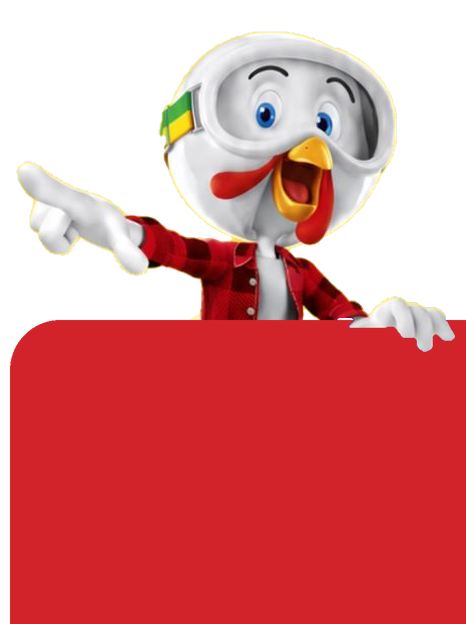
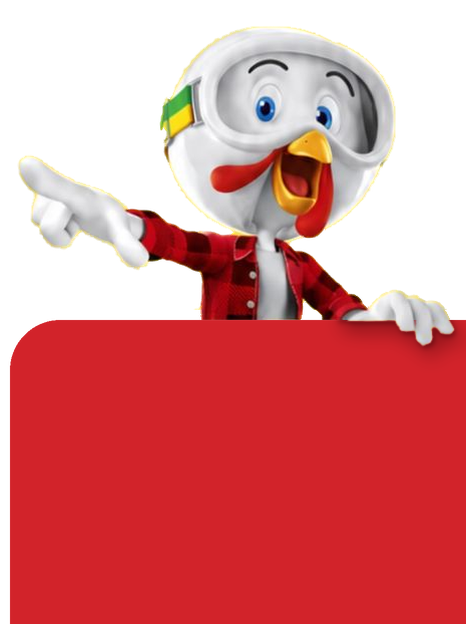
Sadia: recorte refinado do Lek Trek apontando, mão na borda da base e sombra de contato
Claude-Session: https://claude.ai/code/session_019BU3hUhN3BfwpUyH2ASXNC

Changed region(s): [[0.03, 0.0304, 0.9914, 0.5785], [0.3906, 0.3045, 0.4206, 0.3349]]

diff --git a/ferramentas/lektrek_aponta.py b/ferramentas/lektrek_aponta.py
@@ -1,28 +1,51 @@
 # Recorte do Lek Trek apontando (foto do pote de lasanha enviada pelo Vitor, 18/11/2026).
-# Fundo amarelo liso: fora = amarelo (B baixo, R e G altos); bico e faixa da mascara voltam pelo fill_holes.
+# 1) máscara dura: tudo que não é o amarelo do fundo; bico e faixa da máscara voltam pelo fill_holes.
+# 2) refino da borda (faixa de ~3 px): alfa por projeção entre a cor do fundo local (B) e a cor
+#    do mascote mais próxima (F); a cor da borda vira F, sem franja amarela.
 import sys
 import numpy as np
 from PIL import Image
 from scipy import ndimage as ndi
-def recorte(src, corte_y, mao_x=500, mao_y=368):
-    a=np.asarray(Image.open(src).convert('RGB')).astype(float)
-    r,g,b=a[...,0],a[...,1],a[...,2]
-    amarelo=(r>215)&(g>175)&(b<120)&(r-b>120)
-    fg=~amarelo
-    fg[corte_y:, :mao_x]=False; fg[mao_y:]=False; luva=(b>150)&(np.abs(r-b)<45); fg[corte_y-4:, mao_x:]&=luva[corte_y-4:, mao_x:];  # abaixo do pote só a luva branca
-    fg[:, :140]=False; fg[:, 650:]=False
-    fg=ndi.binary_opening(fg,iterations=1)
-    lab,n=ndi.label(fg); tam=ndi.sum(fg,lab,range(1,n+1))
-    fg=np.isin(lab, 1+np.where(tam>=max(400, tam.max()*0.01))[0])
-    fg=ndi.binary_closing(fg,iterations=2); fg=ndi.binary_fill_holes(fg)
-    # alfa suave e descontaminação do amarelo na borda
-    al=np.clip(ndi.gaussian_filter(fg.astype(float),0.8)*1.6-0.3,0,1)
-    borda=(al>0)&(al<1)
-    bg=np.array([252,218,45.])
-    rgb=a.copy()
-    m=borda[...,None]
-    rgb=np.where(m,np.clip((a-bg*(1-al[...,None]))/np.maximum(al[...,None],0.25),0,255),a)
-    out=Image.fromarray(np.dstack([rgb.astype(np.uint8),(al*255).astype(np.uint8)]),'RGBA')
-    bb=out.getbbox(); return out.crop(bb), bb
-if __name__=='__main__':
-    o,bb=recorte(sys.argv[1], int(sys.argv[3])); o.save(sys.argv[2]); print(o.size, bb)
+
+def recorte(src, corte_y, mao_x=500, mao_y=368, banda=2):
+    a = np.asarray(Image.open(src).convert('RGB')).astype(float)
+    r, g, b = a[..., 0], a[..., 1], a[..., 2]
+    amarelo = (r > 215) & (g > 175) & (b < 120) & (r - b > 120)
+    fg = ~amarelo
+    luva = (b > 150) & (np.abs(r - b) < 45)
+    fg[corte_y:, :mao_x] = False; fg[mao_y:] = False
+    fg[corte_y:, mao_x:] &= ndi.binary_dilation(luva, iterations=1)[corte_y:, mao_x:]   # abaixo da borda do pote, só a luva
+    fg[:, :140] = False; fg[:, 650:] = False
+    fg = ndi.binary_opening(fg, iterations=1)
+    lab, n = ndi.label(fg); tam = ndi.sum(fg, lab, range(1, n + 1))
+    fg = np.isin(lab, 1 + np.where(tam >= max(400, tam.max() * 0.01))[0])
+    fg = ndi.binary_closing(fg, iterations=2); fg = ndi.binary_fill_holes(fg)
+    certo = ndi.binary_erosion(fg, iterations=banda)
+    fora = ~ndi.binary_dilation(fg, iterations=banda)
+    # fundo local B (só do amarelo de verdade) e cor do mascote F (pixel firme mais próximo)
+    _, (iy, ix) = ndi.distance_transform_edt(~(fora & amarelo), return_indices=True)
+    B = ndi.gaussian_filter(a[iy, ix], (4, 4, 0))
+    firme = ndi.binary_erosion(fg, iterations=1)   # cor F colada na borda (sem clarear o contorno)
+    _, (jy, jx) = ndi.distance_transform_edt(~firme, return_indices=True)
+    F = a[jy, jx]
+    d = F - B; n2 = (d ** 2).sum(-1)
+    proj = np.clip((((a - B) * d).sum(-1) / np.maximum(n2, 1) - 0.18) / 0.7, 0, 1)   # borda mais firme, sem halo
+    al = np.where(certo, 1.0, np.where(fora, 0.0, np.where(n2 > 900, proj, fg.astype(float))))
+    al[corte_y:, :mao_x] = np.minimum(al[corte_y:, :mao_x], 0)   # corte reto do corpo (fica atrás da base)
+    al[mao_y:] = 0
+    # borda do pote logo acima do corte (amarelo sem ser o fundo liso): fora
+    pote = ((b < 130) & (r > 170) & (g > 130) & (r - b > 90)) | ((r > 230) & (g > 195) & (r - b > 45))   # inclui o brilho claro da borda
+    al[corte_y - 10:corte_y][pote[corte_y - 10:corte_y]] = 0
+    # dedos sobre o pote: alfa suave pela 'brancura' da luva (sem degraus na borda de baixo)
+    luva_s = np.clip((b - 120) / 50, 0, 1) * np.clip((65 - np.abs(r - b)) / 30, 0, 1)
+    luva_s = ndi.gaussian_filter(luva_s, 0.6)
+    al[corte_y:, mao_x:] = np.minimum(al[corte_y:, mao_x:], luva_s[corte_y:, mao_x:])
+    lab2, n2_ = ndi.label(al > 0.05); t2 = ndi.sum(al > 0.05, lab2, range(1, n2_ + 1))
+    al[~np.isin(lab2, 1 + np.where(t2 >= 400)[0])] = 0          # tira restos soltos (brilho do pote)
+    al = ndi.gaussian_filter(al, 0.35)
+    cor = np.where(firme[..., None], a, F)            # borda com a cor do mascote, sem amarelo
+    out = Image.fromarray(np.dstack([cor.clip(0, 255).astype(np.uint8), (al * 255).round().astype(np.uint8)]), 'RGBA')
+    bb = out.getbbox(); return out.crop(bb), bb
+
+if __name__ == '__main__':
+    o, bb = recorte(sys.argv[1], int(sys.argv[3])); o.save(sys.argv[2]); print(o.size, bb)

diff --git a/ferramentas/suporte_lektrek_aponta.py b/ferramentas/suporte_lektrek_aponta.py
@@ -1,14 +1,18 @@
 # Lek Trek apontando para o preço, apoiado na base vermelha (18/11/2026).
-# Corpo atrás da base; a mão direita dele passa por cima da borda da base, como no pote da foto original.
+# Corpo atrás da base; a mão direita passa por cima da borda da base, como no pote da foto,
+# com a sombra de contato da mão sobre a base (pedido do Vitor), em vermelho escuro, só na base.
 import sys
 sys.path.insert(0, 'ferramentas')
-from PIL import Image, ImageDraw
+import numpy as np
+from PIL import Image, ImageDraw, ImageFilter
 from lektrek_aponta import recorte
 X0, Y0, X1, Y1 = 1690, 300, 2156, 924
 BASE_TOP, BASE_X, RAIO = 620, 1700, 50
 VERM = (210, 35, 42, 255)
-LEK_W, LEK_X, AFUNDA = 440, 1706, 2
-CORTE, MAO_X = 336, 500   # linha do pote e início da mão, na foto original
+SOMBRA = (110, 12, 18)              # vermelho bem fechado (multiplica a base, não é preto)
+LEK_W, LEK_X, AFUNDA = 440, 1706, 0
+CORTE, MAO_X = 341, 500             # borda do pote (vira a borda da base) e início da mão, na foto original
+
 def montar(src, saida):
     m, bb = recorte(src, CORTE, MAO_X)
     s = LEK_W / m.width
@@ -19,10 +23,23 @@ def montar(src, saida):
     c.alpha_composite(m, (LEK_X - X0, top - Y0))
     base = Image.new('L', (W * 2, H * 2), 0)
     ImageDraw.Draw(base).rounded_rectangle(((BASE_X - X0) * 2, (BASE_TOP - Y0) * 2, W * 2 + 400, H * 2 + 400), RAIO * 2, fill=255)
-    cam = Image.new('RGBA', (W, H), VERM); cam.putalpha(base.resize((W, H), Image.LANCZOS)); c.alpha_composite(cam)
+    base = base.resize((W, H), Image.LANCZOS)
+    cam = Image.new('RGBA', (W, H), VERM); cam.putalpha(base); c.alpha_composite(cam)
+    # mão por cima da borda
     mx = round((MAO_X - bb[0]) * s); my = round((CORTE - 30 - bb[1]) * s)
-    mao = m.crop((mx, my, m.width, m.height))
-    c.alpha_composite(mao, (LEK_X - X0 + mx, top - Y0 + my))
+    mao = Image.new('RGBA', (W, H), (0, 0, 0, 0))
+    mao.alpha_composite(m.crop((mx, my, m.width, m.height)), (LEK_X - X0 + mx, top - Y0 + my))
+    am = np.asarray(mao.getchannel('A')).astype(float) / 255
+    # sombra: projetada (desce e vai um pouco à direita, como na foto) + contato colado nos dedos
+    def desloca(x, dx, dy):
+        return np.roll(np.roll(x, dy, 0), dx, 1)
+    proj = np.asarray(Image.fromarray((desloca(am, 7, 12) * 255).astype(np.uint8)).filter(ImageFilter.GaussianBlur(9))).astype(float) / 255
+    cont = np.asarray(Image.fromarray((desloca(am, 2, 3) * 255).astype(np.uint8)).filter(ImageFilter.GaussianBlur(2.5))).astype(float) / 255
+    k = np.clip(proj * 0.65 + cont * 0.5, 0, 0.8) * (np.asarray(base).astype(float) / 255) * (1 - am)
+    som = Image.new('RGBA', (W, H), SOMBRA + (255,)); som.putalpha(Image.fromarray((k * 255).astype(np.uint8)))
+    c.alpha_composite(som)
+    c.alpha_composite(mao)
     c.save(saida); print('elemento', (X0, Y0, W, H), 'mascote topo', top, 'x', LEK_X, LEK_X + LEK_W)
+
 if __name__ == '__main__':
     montar(sys.argv[1], sys.argv[2])
